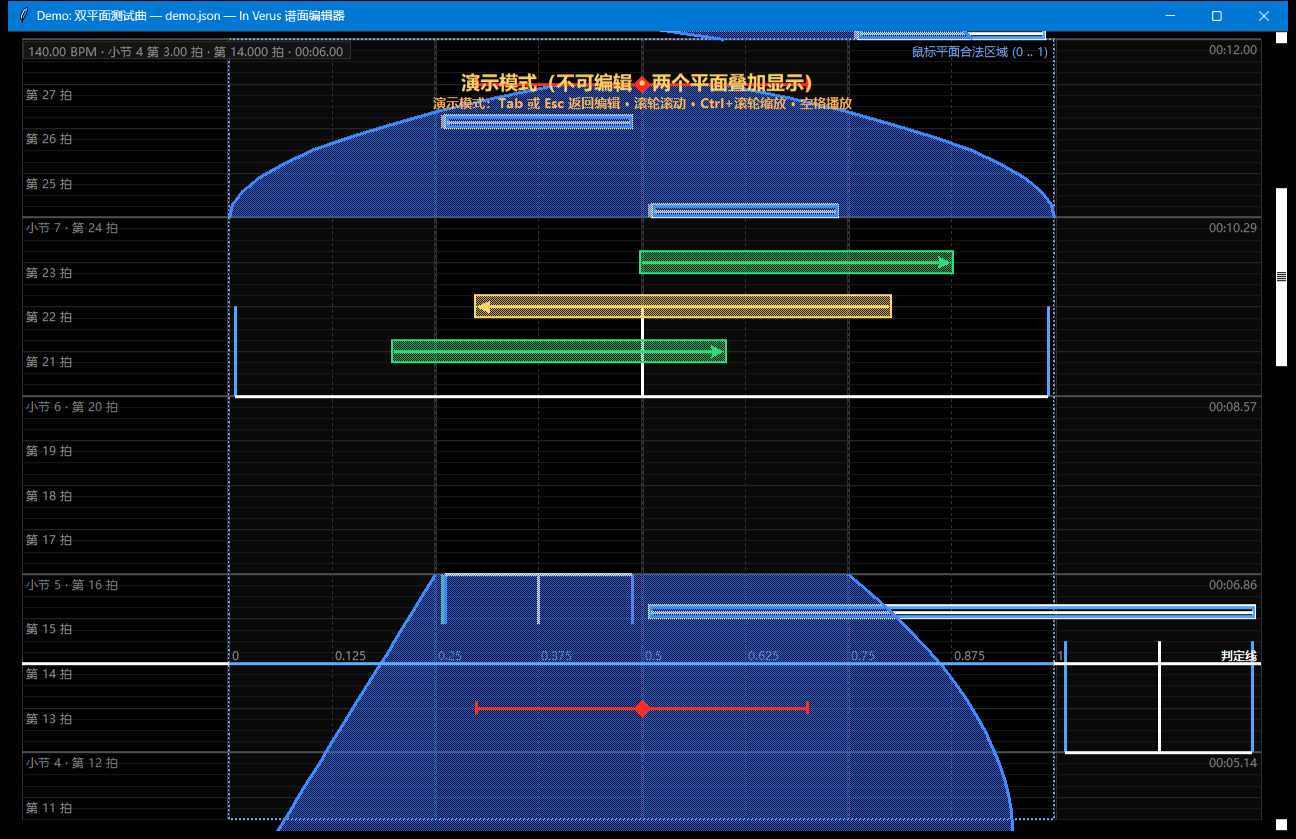
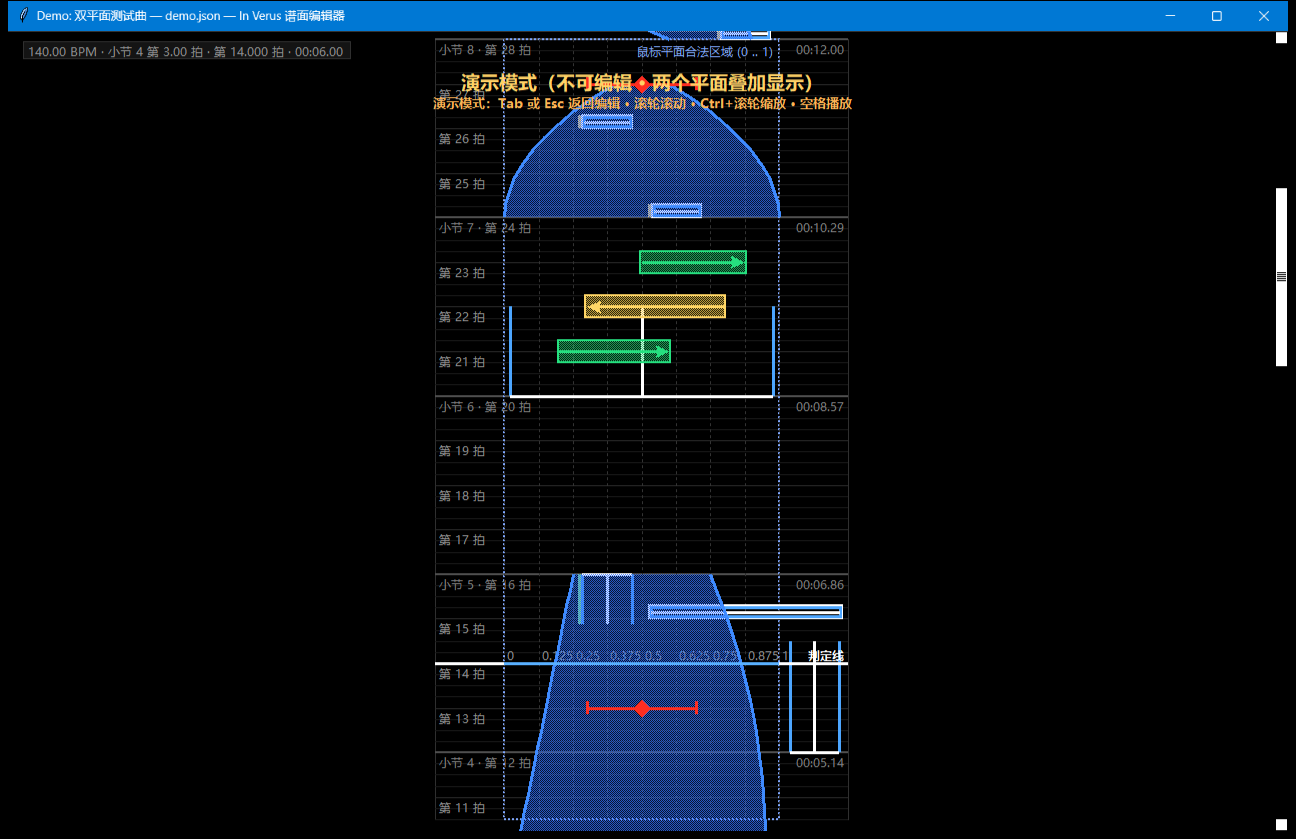
fix: 延迟补偿按倍速缩放；演示模式改为 1/3 宽居中
延迟补偿
- 延迟是真实时间，慢放时真实 1ms 只推进 rate ms 的歌曲时间，
  原来直接减 latency -> 0.5x 多补一倍、0.1x 多补十倍，音画差异随倍速变化
- heard_position_ms() 改为减 latency * rate；暂停时判定线吸附也走同一函数
- 新增测试 test_latency_scales_with_playback_rate

演示模式
- config.OVERLAY_WIDTH_RATIO = 1/3：演示区只占窗口中间三分之一并居中，两侧留黑
- Layout 新增 overlay_span；渲染器按窄带绘制底色边框、时间网格与判定线
- 新增测试 test_overlay_demo_is_one_third_and_centered；截图已刷新
- 242 项测试全绿

diff --git a/src/rhythm_editor/ui/renderer.py b/src/rhythm_editor/ui/renderer.py
@@ -195,10 +195,29 @@ class Renderer:
         layout = view.layout
         theme = self.theme
         self.scene.set_layer(1)
+        # 演示区（1/3 宽、居中）底色 + 边框，其余保持纯黑
+        self.scene.rect(
+            "overlay:bg",
+            layout.overlay_span[0],
+            layout.play_top,
+            layout.overlay_span[1],
+            layout.play_bottom,
+            fill=theme.lane_alt,
+            outline=theme.lane_border,
+            width=1,
+        )
         self._draw_lanes(view, theme, "lane")
         self.scene.set_layer(2)
         self._draw_time_grid(
-            chart, view, beat_low, beat_high, layout.play_left, layout.play_right, "grid", True, True
+            chart,
+            view,
+            beat_low,
+            beat_high,
+            layout.overlay_span[0],
+            layout.overlay_span[1],
+            "grid",
+            True,
+            True,
         )
         self.scene.set_layer(3)
         self._draw_legal_area(view, "mouse", label="鼠标平面合法区域 (0 .. 1)", label_anchor="ne")
@@ -207,7 +226,13 @@ class Renderer:
         self._draw_notes(chart, view, state)
         self.scene.set_layer(10)
         self._draw_judgment_line(
-            view, state, layout.play_left, layout.play_right, "judge", accent=False, label="判定线"
+            view,
+            state,
+            layout.overlay_span[0],
+            layout.overlay_span[1],
+            "judge",
+            accent=False,
+            label="判定线",
         )
         self._draw_judgment_line(
             view, state, layout.mouse_left, layout.mouse_right, "judge-mouse", accent=True

diff --git a/src/rhythm_editor/ui/view.py b/src/rhythm_editor/ui/view.py
@@ -60,9 +60,15 @@ class Layout:
         self.play_width = self.play_right - self.play_left
 
         if self.mode == config.LAYOUT_OVERLAY:
-            rects = _column_rects((self.play_left, self.play_right), config.LANE_COUNT)
+            # 演示模式：只占窗口宽度的 1/3，水平居中
+            width = self.play_width * float(config.OVERLAY_WIDTH_RATIO)
+            center = (self.play_left + self.play_right) / 2.0
+            left = max(self.play_left, center - width / 2.0)
+            right = min(self.play_right, center + width / 2.0)
+            self.overlay_span = (float(left), float(right))
+            rects = _column_rects(self.overlay_span, config.LANE_COUNT)
             self.lane_rects = rects
-            self.pane_6k = (float(self.play_left), float(self.play_right))
+            self.pane_6k = (float(left), float(right))
             mouse_left = rects[config.MOUSE_LANE_FIRST][0]
             mouse_right = rects[config.MOUSE_LANE_LAST][1]
             self.pane_mouse = (mouse_left, mouse_right)
@@ -89,6 +95,8 @@ class Layout:
         # 1 个归一化单位对应多少像素（鼠标平面的显示范围内插用）
         self.norm_scale = self.mouse_width / max(1e-6, self.norm_max - self.norm_min)
         self.divider_x = (self.pane_6k[1] + self.pane_mouse[0]) / 2.0
+        if self.mode != config.LAYOUT_OVERLAY:
+            self.overlay_span = (float(self.play_left), float(self.play_right))
 
     # -------------------------------------------------------------- 区域判断
     def in_6k_pane(self, x: float) -> bool:

diff --git a/tests/test_editor_smoke.py b/tests/test_editor_smoke.py
@@ -164,6 +164,27 @@ class EditorSmokeTest(unittest.TestCase):
         self.assertLessEqual(judge[2], layout.pane_6k[1] + 1)
         self.assertGreaterEqual(judge_mouse[0], layout.pane_mouse[0] - 1)
 
+    def test_overlay_demo_is_one_third_and_centered(self) -> None:
+        """演示模式只占窗口宽度的 1/3，并且水平居中。"""
+        self.view.set_layout_mode(config.LAYOUT_OVERLAY)
+        layout = self.view.layout
+        low, high = layout.overlay_span
+        self.assertAlmostEqual(
+            high - low, layout.play_width * config.OVERLAY_WIDTH_RATIO, delta=1.0
+        )
+        self.assertAlmostEqual(low - layout.play_left, layout.play_right - high, delta=1.0)
+        # 轨道都落在这条 1/3 的区域里
+        self.assertAlmostEqual(layout.lane_rects[0][0], low, delta=1.0)
+        self.assertAlmostEqual(layout.lane_rects[-1][1], high, delta=1.0)
+        self.draw()
+        self.assertIn("overlay:bg", self.scene._items)
+        box = self.scene._items["overlay:bg"][2][0]
+        self.assertAlmostEqual(box[0], low, delta=0.01)
+        self.assertAlmostEqual(box[2], high, delta=0.01)
+        judge = self.scene._items["judge"][2][0]
+        self.assertAlmostEqual(judge[0], low, delta=1.0)
+        self.assertAlmostEqual(judge[2], high, delta=1.0)
+
     def test_divider_drag_resizes_both_panes(self) -> None:
         """拖动分界线：两栏宽度实时变化，并夹在最小宽度内。"""
         layout = self.view.layout

diff --git a/tests/test_audio_rate.py b/tests/test_audio_rate.py
@@ -95,6 +95,31 @@ class AudioPlayerRateTests(unittest.TestCase):
         player.latency_ms = -60.0
         self.assertAlmostEqual(player.heard_position_ms(), 1060.0)
 
+    def test_latency_scales_with_playback_rate(self) -> None:
+        """延迟是真实时间：慢放时只推进 rate 倍的歌曲时间，补偿要按倍速缩放。"""
+        player = AudioPlayer()
+
+        class Stub:
+            name = "pygame.mixer"
+            supports_seek = True
+            is_playing = True
+
+            def position_ms(self) -> float:
+                return 1000.0
+
+            def poll(self) -> None:  # pragma: no cover
+                return
+
+        player.backend = Stub()
+        player._playing = True
+        player.latency_ms = 200.0
+        player.rate = 1.0
+        self.assertAlmostEqual(player.heard_position_ms(), 800.0)
+        player.rate = 0.5           # 慢放：真实 200ms 只相当于歌曲 100ms
+        self.assertAlmostEqual(player.heard_position_ms(), 900.0)
+        player.rate = 0.1
+        self.assertAlmostEqual(player.heard_position_ms(), 980.0)
+
     def test_stretch_available_flag_matches_dependencies(self) -> None:
         # 当前环境装了 pygame-ce 与 numpy，因此变速不变调可用
         self.assertTrue(STRETCH_AVAILABLE)

diff --git a/src/rhythm_editor/config.py b/src/rhythm_editor/config.py
@@ -26,6 +26,7 @@ SPLIT_6K_RATIO = 0.25         # 6K 区域只占约四分之一宽度，其余给
 PANE_GAP = 16                 # 两个区域之间的间隔（像素）
 SPLIT_MIN_PANE_PX = 150.0     # 拖动分界线时两边各自的最小宽度
 DIVIDER_GRAB_PX = 7.0         # 分界线的“可抓取”半径（像素）
+OVERLAY_WIDTH_RATIO = 1 / 3   # 演示模式只占窗口宽度的三分之一（居中）
 # 鼠标平面在合法区域之外额外显示的范围（归一化坐标）：
 # 合法区域是 0..1，这里两侧各多显示 0.45，方便看清超出 0..1 的区域边界
 MOUSE_OVERFLOW_NORM = 0.45

diff --git a/src/rhythm_editor/app.py b/src/rhythm_editor/app.py
@@ -736,8 +736,8 @@ class EditorApp:
 
     def pause(self) -> None:
         timing = self.document.chart.timing
-        position = self.audio.position_ms()
-        heard = position - self.audio.latency_ms if self.audio.usable_audio else position
+        # 用听到的位置（已按倍速缩放延迟），保证暂停时的判定线与刚刚听到的一致
+        heard = self.audio.heard_position_ms()
         beat = self.view.snap_beat(timing.song_ms_to_beat(heard))
         self.audio.pause()
         self.view.set_beat(beat)

diff --git a/src/rhythm_editor/audio.py b/src/rhythm_editor/audio.py
@@ -804,5 +804,7 @@ class AudioPlayer:
         """耳朵实际听到的位置（考虑系统音频延迟）。"""
         position = self.position_ms()
         if self.usable_audio:
-            position -= self.latency_ms
+            # 延迟是**真实时间**：慢放时真实 1ms 只推进 rate ms 的歌曲时间，
+            # 所以要按倍速缩放，否则延迟补偿会被倍速放大/缩小。
+            position -= self.latency_ms * self.rate
         return max(0.0, position)

diff --git a/docs/VERIFICATION.md b/docs/VERIFICATION.md
@@ -113,7 +113,7 @@ python tools/check_audio.py
 
 | 项目 | 命令 | 结果 |
 | --- | --- | --- |
-| 单元测试（含 Tk 画布冒烟测试与应用级测试） | `python -m unittest discover -s tests -t .` | Ran 240 tests — **OK** |
+| 单元测试（含 Tk 画布冒烟测试与应用级测试） | `python -m unittest discover -s tests -t .` | Ran 242 tests — **OK** |
 | 需求验收清单 | `python tools/acceptance.py` | 14 项全部 `[OK ]`，结论：全部通过 |
 | 音频后端 | `python tools/check_audio.py` | 9 项全部 `[OK ]`（pygame.mixer 真实播放，延迟补偿正确） |
 | 示例谱面生成 | `python run_editor.py --make-demo` | 生成 `charts/demo/demo.json`（6K 32 / 区域 3 / 滑键 6 / 点击按键 4 / 4 个速度组） |
@@ -204,6 +204,8 @@ python tools/check_audio.py
 | `tests/test_app_flow.py::test_toolbar_groups_without_menubar` | 顶栏顺序：文件/编辑（合并）→ 谱面设置 → 放置物件 → 编辑物件 → 视图 → 速度组 → 音效 → 编辑器设置 |
 | `tests/test_app_flow.py::test_panel_groups_split` | 编辑器设置菜单含「编辑器设置…/操作指南…/快捷键…」；播放按钮固定在右端 |
 | `tests/test_app_flow.py::test_sound_effects_follow_the_music_clock_not_the_ui` | 延迟 ≠ 0 时：音效按软件位置触发（与音乐同步），判定线仍按听到的位置显示 |
+| `tests/test_audio_rate.py::test_latency_scales_with_playback_rate` | 延迟按真实时间缩放：1.0x / 0.5x / 0.1x 下 200ms 分别只减 200 / 100 / 20ms |
+| `tests/test_editor_smoke.py::test_overlay_demo_is_one_third_and_centered` | 演示模式占窗口宽度 1/3 且居中；轨道、网格、判定线都在窄带内 |
 | `tests/test_audio_rate.py`（16 条） | 倍速（重采样，**变速变调**）：长度随倍率伸缩、0.5x 时频率减半（过零率）、静音时钟跟随倍速、倍速夹取、**负延迟**的 heard 位置、延迟范围、**立体声也能慢放**、**分窗口首尾相接**、**调度连续不断音**（回归：pygame 只播一个排队块）、**打开谱面后第一次播放用真实后端**（回归）、**播放中改倍速自动暂停**并保持位置 |
 | `tests/test_app_flow.py::test_rate_buttons_step_and_clamp` | 倍速按钮 ±0.1x 与 0.1~1.0x 夹取，标签同步 |
 | `tests/test_app_flow.py::test_rate_buttons_are_always_available` | 右侧倍速按钮固定在右侧优先分配空间 |

diff --git a/docs/SPEC.md b/docs/SPEC.md
@@ -43,6 +43,7 @@
   鼠标平面在合法区域 0..1 之外还各留 `0.45` 的显示余量（显示范围 `-0.45 .. 1.45`），
   因此超出 0..1 的区域边界也看得见；再超出的部分在区域边界处截断（数据本身不变）。
 * **演示模式**（`Tab`）：两个区域**叠加**成一个 —— 鼠标平面覆盖在 6K 的中间四条轨道上。
+  演示区**只占窗口宽度的 1/3 并水平居中**（`config.OVERLAY_WIDTH_RATIO`），两侧留黑。
 * 背景为纯黑（`#000000`）；窗口**默认最大化**启动（保留标题栏与任务栏），
   `F10` / 「视图 → 最大化 / 还原窗口」切换最大化，`F11` / 「视图 → 全屏切换」进入无边框全屏。
 * 顶部工具栏只保留分组入口（文件 / 编辑 / 放置 / 视图 / 谱面设置）+ 播放 + 速度组 +
@@ -232,7 +233,9 @@
 
 1. **缩放**：屏幕上同时显示多长时间内出现的物件（秒），滑杆 + 精确输入。
 2. **系统音频延迟**：从软件执行音频播放操作到电脑硬件放出声音的间隔（毫秒）。
-   播放时用“后端位置 − 延迟”作为耳朵听到的位置来推进判定线。
+   播放时用“后端位置 − 延迟 × 倍速”作为耳朵听到的位置来推进判定线
+   （延迟是**真实时间**：慢放时真实 200ms 只相当于歌曲 100ms@0.5x，
+   所以补偿必须按倍速缩放，否则音画差异会随倍速变化）。
    **允许负数**（`-5000 ~ 5000` ms）：负值表示声音比软件位置更早，此时会把差值加回来。
 
 > **网格设置已从本面板移到「视图」菜单的对应子级**：`时间网格细分 → 1/1 … 1/64`、
@@ -356,6 +359,8 @@
 
 * `Tab` 或工具栏按钮进入 / 退出。
 * 两个区域叠加显示（与编辑视图一致），**不支持编辑**（点击不会产生物件、不能选择）。
+* 演示区**只占窗口宽度的 1/3 并水平居中**（`config.OVERLAY_WIDTH_RATIO = 1/3`），
+  两侧留纯黑；轨道、时间网格、判定线与物件都绘制在这条窄带里。
 * 支持滚动、缩放、播放 / 暂停，以及用右侧竖向滚动条拖动时间轴。
 * 时间轴导航：画布右侧是一条**朴素的竖向滚动条**（滑块长度 = 当前可视时间占比，
   拖动 / 点箭头 / 翻页都会移动判定线，且始终吸附网格）；原来的底部总览条已移除。

diff --git a/docs/USER_GUIDE.md b/docs/USER_GUIDE.md
@@ -136,12 +136,15 @@ python run_editor.py charts/demo/demo.json --fullscreen  # 无边框全屏
   设置会存进谱面里。
 * 如果画面与声音有偏差，调整「编辑器设置 → 系统音频延迟」（毫秒，**可为负**：
   负值表示声音比软件位置更早，会反向补偿）。
+  延迟按**真实时间**计，编辑器会自动按播放倍速缩放补偿
+  （0.5x 时真实 200ms 只相当于歌曲 100ms），所以换倍速不需要重调延迟。
   典型值：蓝牙耳机 120~250 ms，有线声卡 20~60 ms。
 * 没有安装 pygame 时会以静音时钟播放，方便对位但不发声。
 
 ### 3.6 演示模式
 
-* `Tab` 进入 / 退出。进入后两个平面**叠加**显示、隐藏工具栏与状态栏，画面只读，
+* `Tab` 进入 / 退出。进入后两个平面**叠加**显示（**只占窗口宽度的 1/3、居中**，
+  两侧留黑）、隐藏工具栏与状态栏，画面只读，
   支持滚轮滚动、`Ctrl+滚轮` 缩放、空格播放 / 暂停，以及拖动右侧滚动条。
 
 ## 4. 快捷键总表

diff --git a/CHANGELOG.md b/CHANGELOG.md
@@ -2,6 +2,17 @@
 
 ## 0.3.1 — 鼠标点击按键与鼠标平面的摆放规则
 
+### 修复：系统延迟的音画差异会被倍速放大 ＋ 演示模式改为 1/3 居中
+
+* **延迟按真实时间缩放**：延迟是“声音比软件位置晚多少**真实毫秒**”，
+  而慢放时真实 1ms 只推进 `rate` ms 的歌曲时间。原来直接减 `latency`，
+  于是 0.5x 下补偿多了一倍、0.1x 下多了十倍 —— 音画差异随倍速变化。
+  现在 `heard_position_ms()` 减的是 `latency × rate`
+  （0.5x / 200ms → 只减 100ms），暂停时的判定线吸附也用同一个值。
+* **演示模式改为 1/3 宽、居中**：`config.OVERLAY_WIDTH_RATIO = 1/3`，
+  演示区（轨道 / 网格 / 判定线 / 物件）只占窗口中间三分之一，两侧留纯黑，
+  并新增演示区底色边框；判定线与时间网格都按这条窄带绘制。
+
 ### 修复：系统音频延迟不为 0 时，音效与音乐对不上
 
 * 现象：延迟设成 100~250ms 后，节拍音 / 打击音是**跟着 UI** 响的 ——
